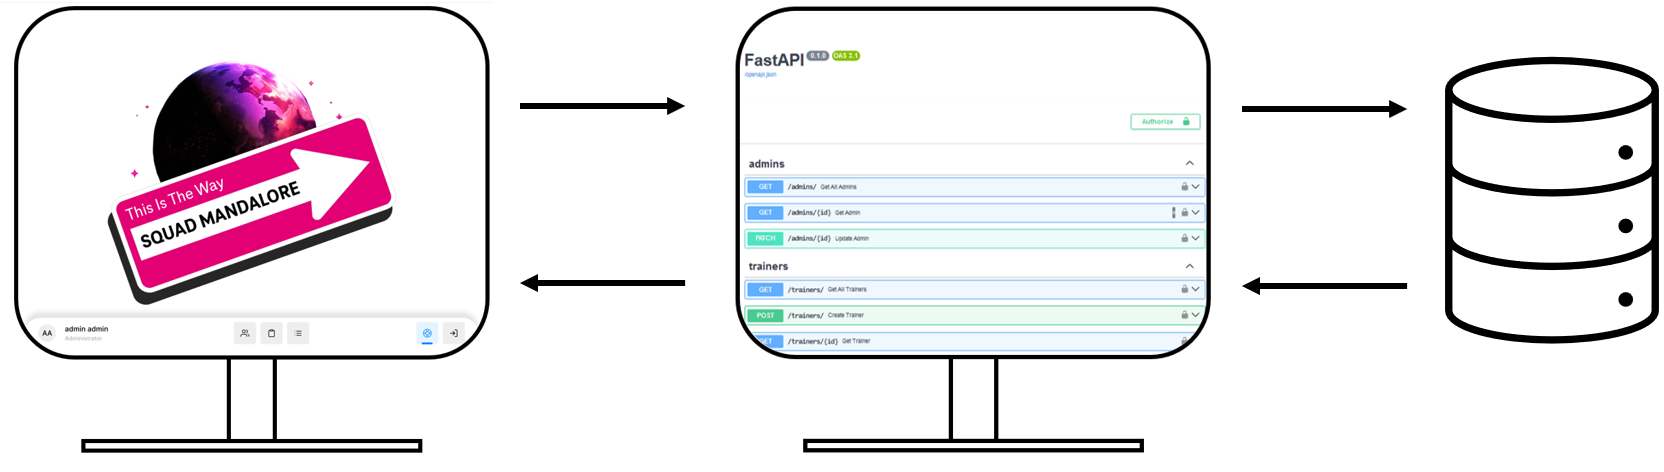
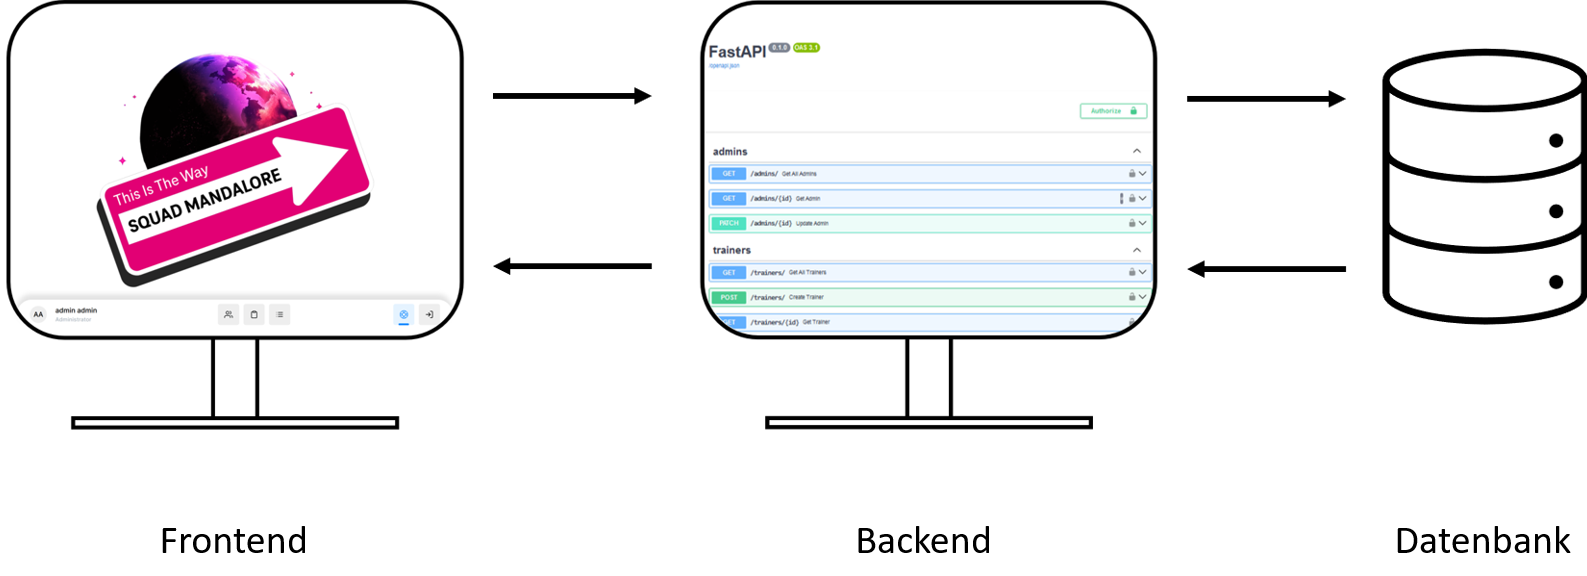
anglifizierung, memes entfernisierung

Changed region(s): [[0.0, 0.0, 1.0, 0.9788], [0.8645, 0.9195, 0.988, 0.9788]]

diff --git a/src/app/pages/help-page/help-page.component.html b/src/app/pages/help-page/help-page.component.html
@@ -43,7 +43,7 @@
                 </div>
                 <!------------------------------------------------------------------------------------------------------------------------------------------------------------------->
                 <div class="breakline"></div>
-                <p class="sub-headline">Git Verzweigung</p>
+                <p class="sub-headline">Git Branching</p>
                 <div class="image-wrapper">
                     <img src="assets/presentation-images/gitzweige.png" alt="Gitzweige">
                 </div>
@@ -53,7 +53,7 @@
                 </div>
                 <!------------------------------------------------------------------------------------------------------------------------------------------------------------------->
                 <div class="breakline"></div>
-                <p class="sub-headline">Git Verzweigung Graph</p>
+                <p class="sub-headline">Git Branching - Graph</p>
                 <div class="image-wrapper">
                     <img src="assets/presentation-images/gitzweigegreph.png" alt="Gitzweige">
                 </div>
@@ -63,21 +63,7 @@
                 </div>
                 <!------------------------------------------------------------------------------------------------------------------------------------------------------------------->
                 <div class="breakline"></div>
-                <p class="sub-headline">Serverlose Wenigerheit</p>
-                <div class="image-wrapper">
-                    <img src="assets/presentation-images/not_the_servers.png"
-                        alt="These are not the Servers you are looking for">
-                </div>
-                <div class="image-wrapper">
-                    <img src="assets/presentation-images/theway.png" alt="This is the way">
-                </div>
-                <div class="logo-container">
-                    <img src="assets/presentation-images/smtrans.png" alt="Squad Mandalore Logo"
-                        class="squad-mandalore">
-                </div>
-                <!------------------------------------------------------------------------------------------------------------------------------------------------------------------->
-                <div class="breakline"></div>
-                <p class="sub-headline">Entitätenbeziehungsmodell</p>
+                <p class="sub-headline">Entity Relationship</p>
                 <div class="image-wrapper">
                     <img src="assets/presentation-images/er.png" alt="Entitätenbeziehungsmodell">
                 </div>
@@ -87,7 +73,7 @@
                 </div>
                 <!------------------------------------------------------------------------------------------------------------------------------------------------------------------->
                 <div class="breakline"></div>
-                <p class="sub-headline">Entitätenbeziehungsmodell Tabelle</p>
+                <p class="sub-headline">Entity Relationship Tabelle</p>
                 <div class="image-wrapper">
                     <img src="assets/presentation-images/ertabelle.png" alt="Entitätenbeziehungsmodell Tabelle">
                 </div>
@@ -96,10 +82,10 @@
         <div>
             <!------------------------------------------------------------------------------------------------------------------------------------------------------------------->
             <div id="headline-wrapper">
-                <p class="headline">Das hintere Ende</p>
+                <p class="headline">Backend</p>
             </div>
             <div id="general-information-wrapper">
-                <p class="sub-headline">Offene Anwendungsprogrammierschnittstellen Spezifikation</p>
+                <p class="sub-headline">Open Api Specification</p>
                 <p style="text-align: center;">
                     ⭐ Interaktiv ⭐
                     <br>
@@ -120,19 +106,19 @@
                 </div>
                 <!------------------------------------------------------------------------------------------------------------------------------------------------------------------->
                 <div class="breakline"></div>
-                <p class="sub-headline">Docker Komponierung</p>
+                <p class="sub-headline">Docker Compose</p>
                 <div class="image-wrapper">
                     <img src="assets/presentation-images/docker.png" style="width:80%" alt="FastAPI">
                 </div>
                 <!------------------------------------------------------------------------------------------------------------------------------------------------------------------->
                 <div class="breakline"></div>
-                <p class="sub-headline">Tests und Programmtextqualität</p>
+                <p class="sub-headline">Tests und Code Qualität</p>
                 <ul>
                     <li>Einheitstests mittels pytest</li>
                     <div class="logo-container">
                         <img src="assets/presentation-images/pytest.png" alt="pytest Logo" class="squad-mandalore">
                     </div>
-                    <li>Programmabdeckung von 70%</li>
+                    <li>Code Abdeckung von 70%</li>
                 </ul>
                 <div class="image-wrapper">
                     <img src="assets/presentation-images/testgif.gif" alt="Pytest" loop>
@@ -146,7 +132,7 @@
         <div>
             <!------------------------------------------------------------------------------------------------------------------------------------------------------------------->
             <div id="headline-wrapper">
-                <p class="headline">Das vordere Ende</p>
+                <p class="headline">Frontend</p>
             </div>
             <div id="general-information-wrapper">
                 <p class="sub-headline"><a href="https://www.figma.com/design/jEETxMmBzQkCGvRDBABZH3/Mockup-Sportabzeichen?node-id=0-1&t=FwZmueXBNZCf6bzY-1" target="_blank">Link zu Figma</a></p>
